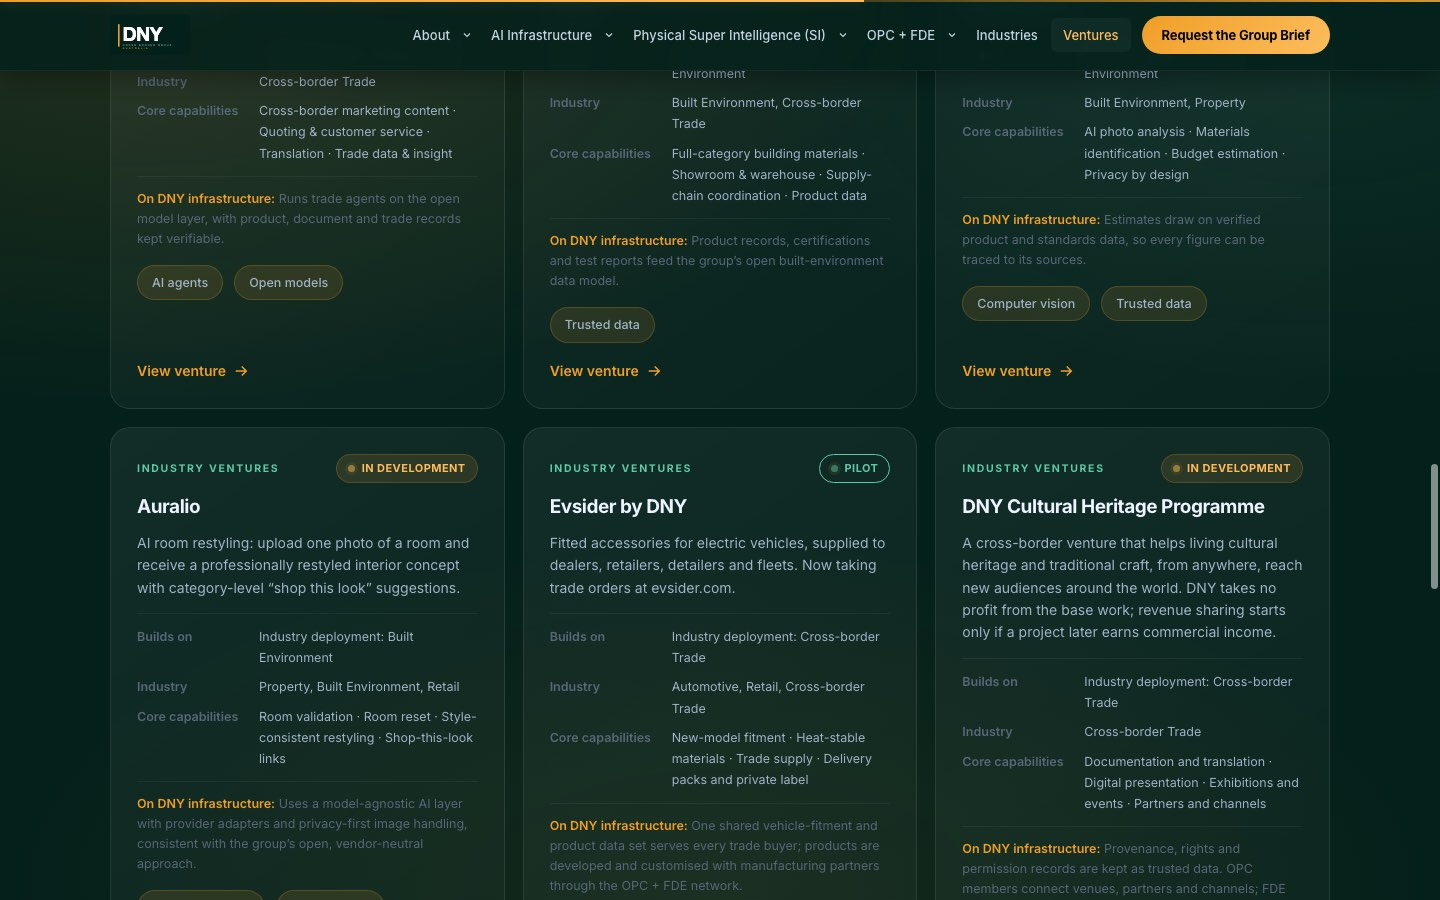
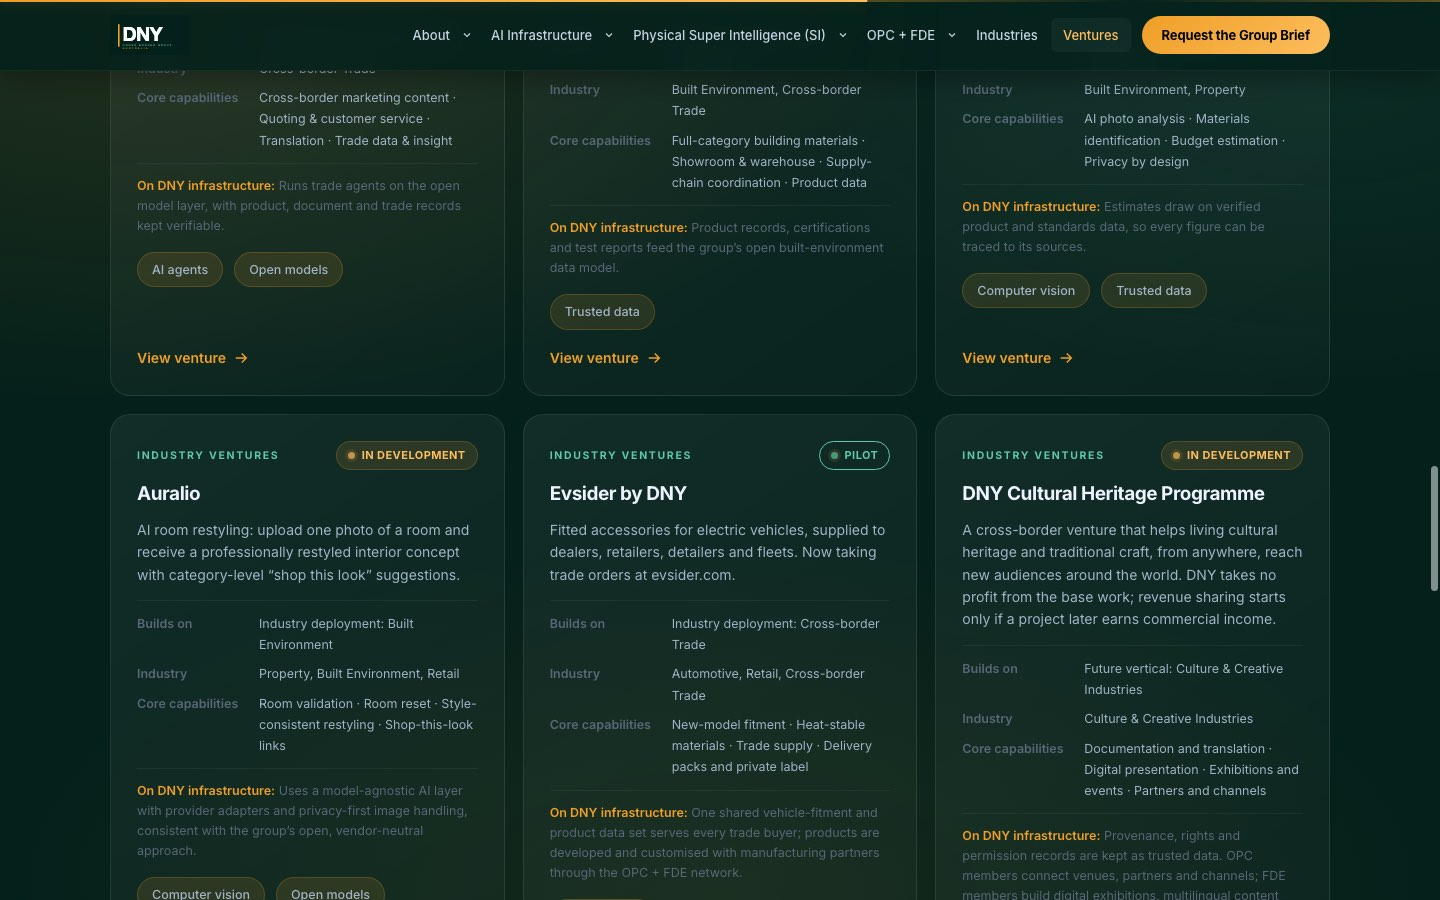
docs: industry label change note and refreshed screenshots

diff --git a/docs/hermes/2026-11-01-hermes-report-cultural-heritage-exchange.md b/docs/hermes/2026-11-01-hermes-report-cultural-heritage-exchange.md
@@ -92,3 +92,14 @@ OG 图另外补了 5 张无人机页面缺失的（`physical-intelligence--drone
 - FAQ 组 key、FAQ 标题与问题文字、`industries.ts` 的 ventures、`architecture.ts` 的列举、`/facts`、`llms.txt`、`ventures.json`、OG 图（`ventures--cultural-heritage-programme.jpg`）全部跟随
 - 页面 H1、`<title>`、Open Needs 卡片、两个表单的预选值实测均为新名
 - 截图按新页面重拍
+
+## 11. 行业标签（Max 指出）
+
+原来这个 venture 的 Industry 写的是 Cross-border Trade，跟它的实际内容不符：它是文化项目，不是贸易业务。
+
+- `industries`：`['Cross-border Trade']` → `['Culture & Creative Industries']`
+- `builtOn`：`'Industry deployment: Cross-border Trade'` → `'Future vertical: Culture & Creative Industries'`
+
+用 "Future vertical" 而不是 "Industry deployment"，是因为这个方向目前在 `/industries` 里就在 Future Verticals 区块，还没有现存业务落地，写成已部署会夸大口径。
+
+这个 venture 现在与实物贸易类的三个 venture（建材、EV 配件、AI 贸易服务）不再共用行业标签；页面上的 "trade" 只剩页脚公司简介与其他 venture 的关联卡片，正文已无。
